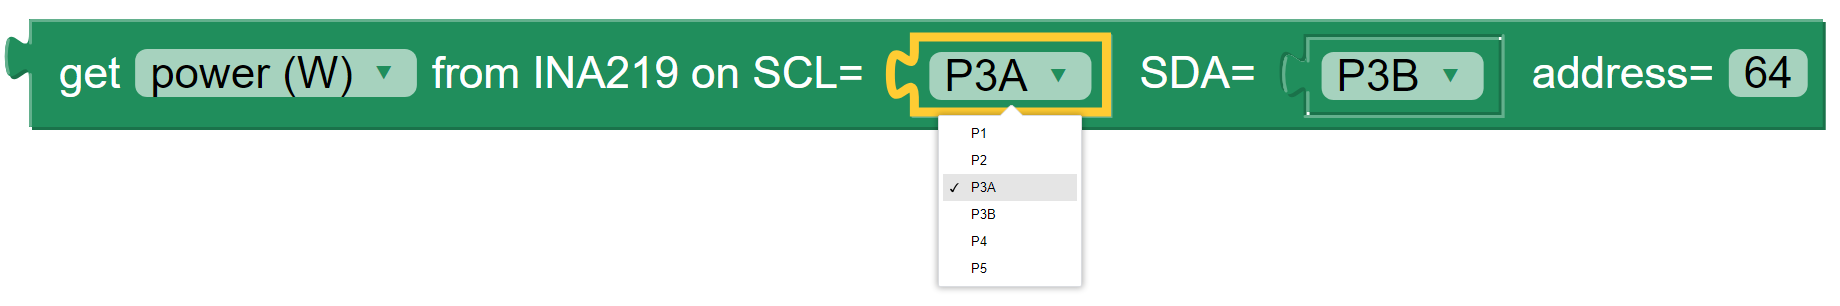
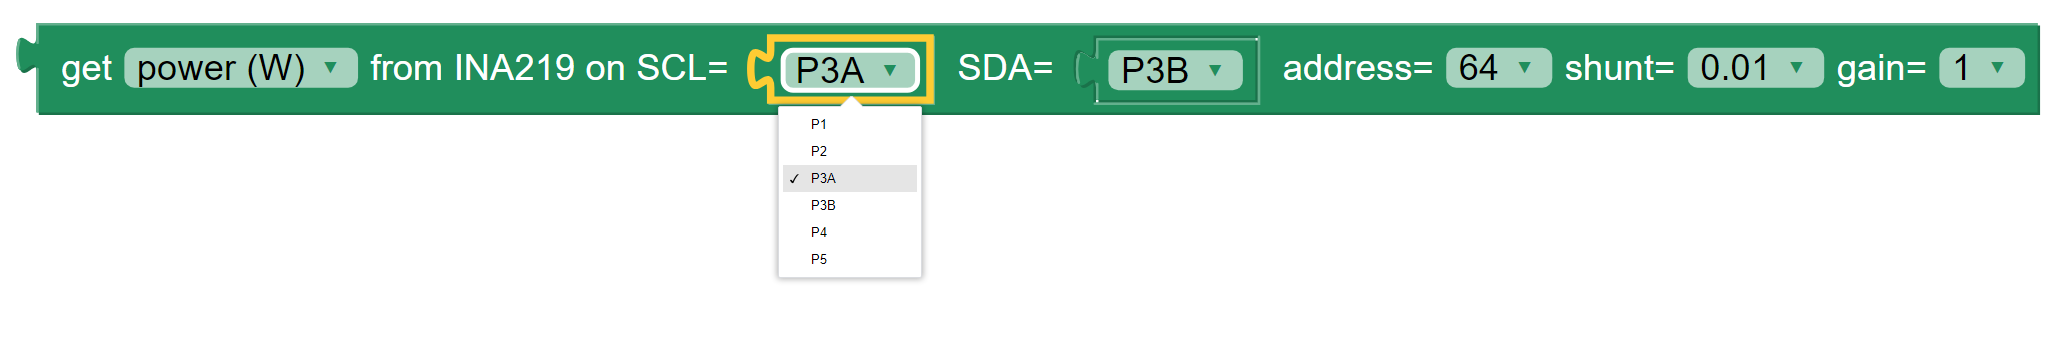
Interim INA219 block content

diff --git a/docs/source/sensors.rst b/docs/source/sensors.rst
@@ -348,10 +348,6 @@ When using a VEML7700 circuit board it is important that these signals are conne
 Get Power / Voltage / Current from INA219
 ~~~~~~~~~~~~~~~~~~~~~~~~~~~~~~~~~~~~~~~~~
 
-.. note:: 
-   This section is still under development in regard to the ranges and resolutions of readings that are configured by **KookaBlockly**.
-
-
 The **Get Power / Voltage / Current from INA219** block is shown below with the four sets of options available from the drop-down boxes on the block.
 
 
@@ -399,8 +395,9 @@ A string block can also be used instead of the drop-down selector blocks and the
 
 
 The fourth option on the block is the I2C address of the board.  Up to four INA219 sensors may be connected to a single I2C bus 
-with any of the addresses ``64`` (hex ``0x40``), ``65`` (hex ``0x41``), ``68`` (hex ``0x44``) or ``69`` (hex ``0x45``).  Each board must have a unique I2C address.
-To change the address in the block simply click on the filed and over-type the default value.
+with any of the addresses ``64`` (hex ``0x40``), ``65`` (hex ``0x41``), ``68`` (hex ``0x44``) or ``69`` (hex ``0x45``).  
+Each board must have a unique I2C address.
+To change the address in the block select the desired address from the drop-down list.
 
 
 .. image:: images/sensors-get-power-ina219-shunt.png
@@ -423,8 +420,10 @@ Power in the shunt resistor is dissipated as heat and is equal to i^2 x R, where
 
 The sixth option is a drop-down of gains applied to the current readings, and consequently the power readings.
 The available values for gain are: ``1``, ``1/2``, ``1/4`` and ``1/8``.
-Lower gains improve the resolution of the current readings, useful for monitoring low-current devices, 
-but they also limit the range of current that can be read by the sensor.
+Lower gains ensure that higher currents and/or shunt resistance values do not force the the current readings out of range.
+Lower gains also degrade the resolution of current readings.
+
+For general STEM use, involving low current loads, it is recommended that the gain setting be left on 1.
 
 
 About the INA219 Sensor
